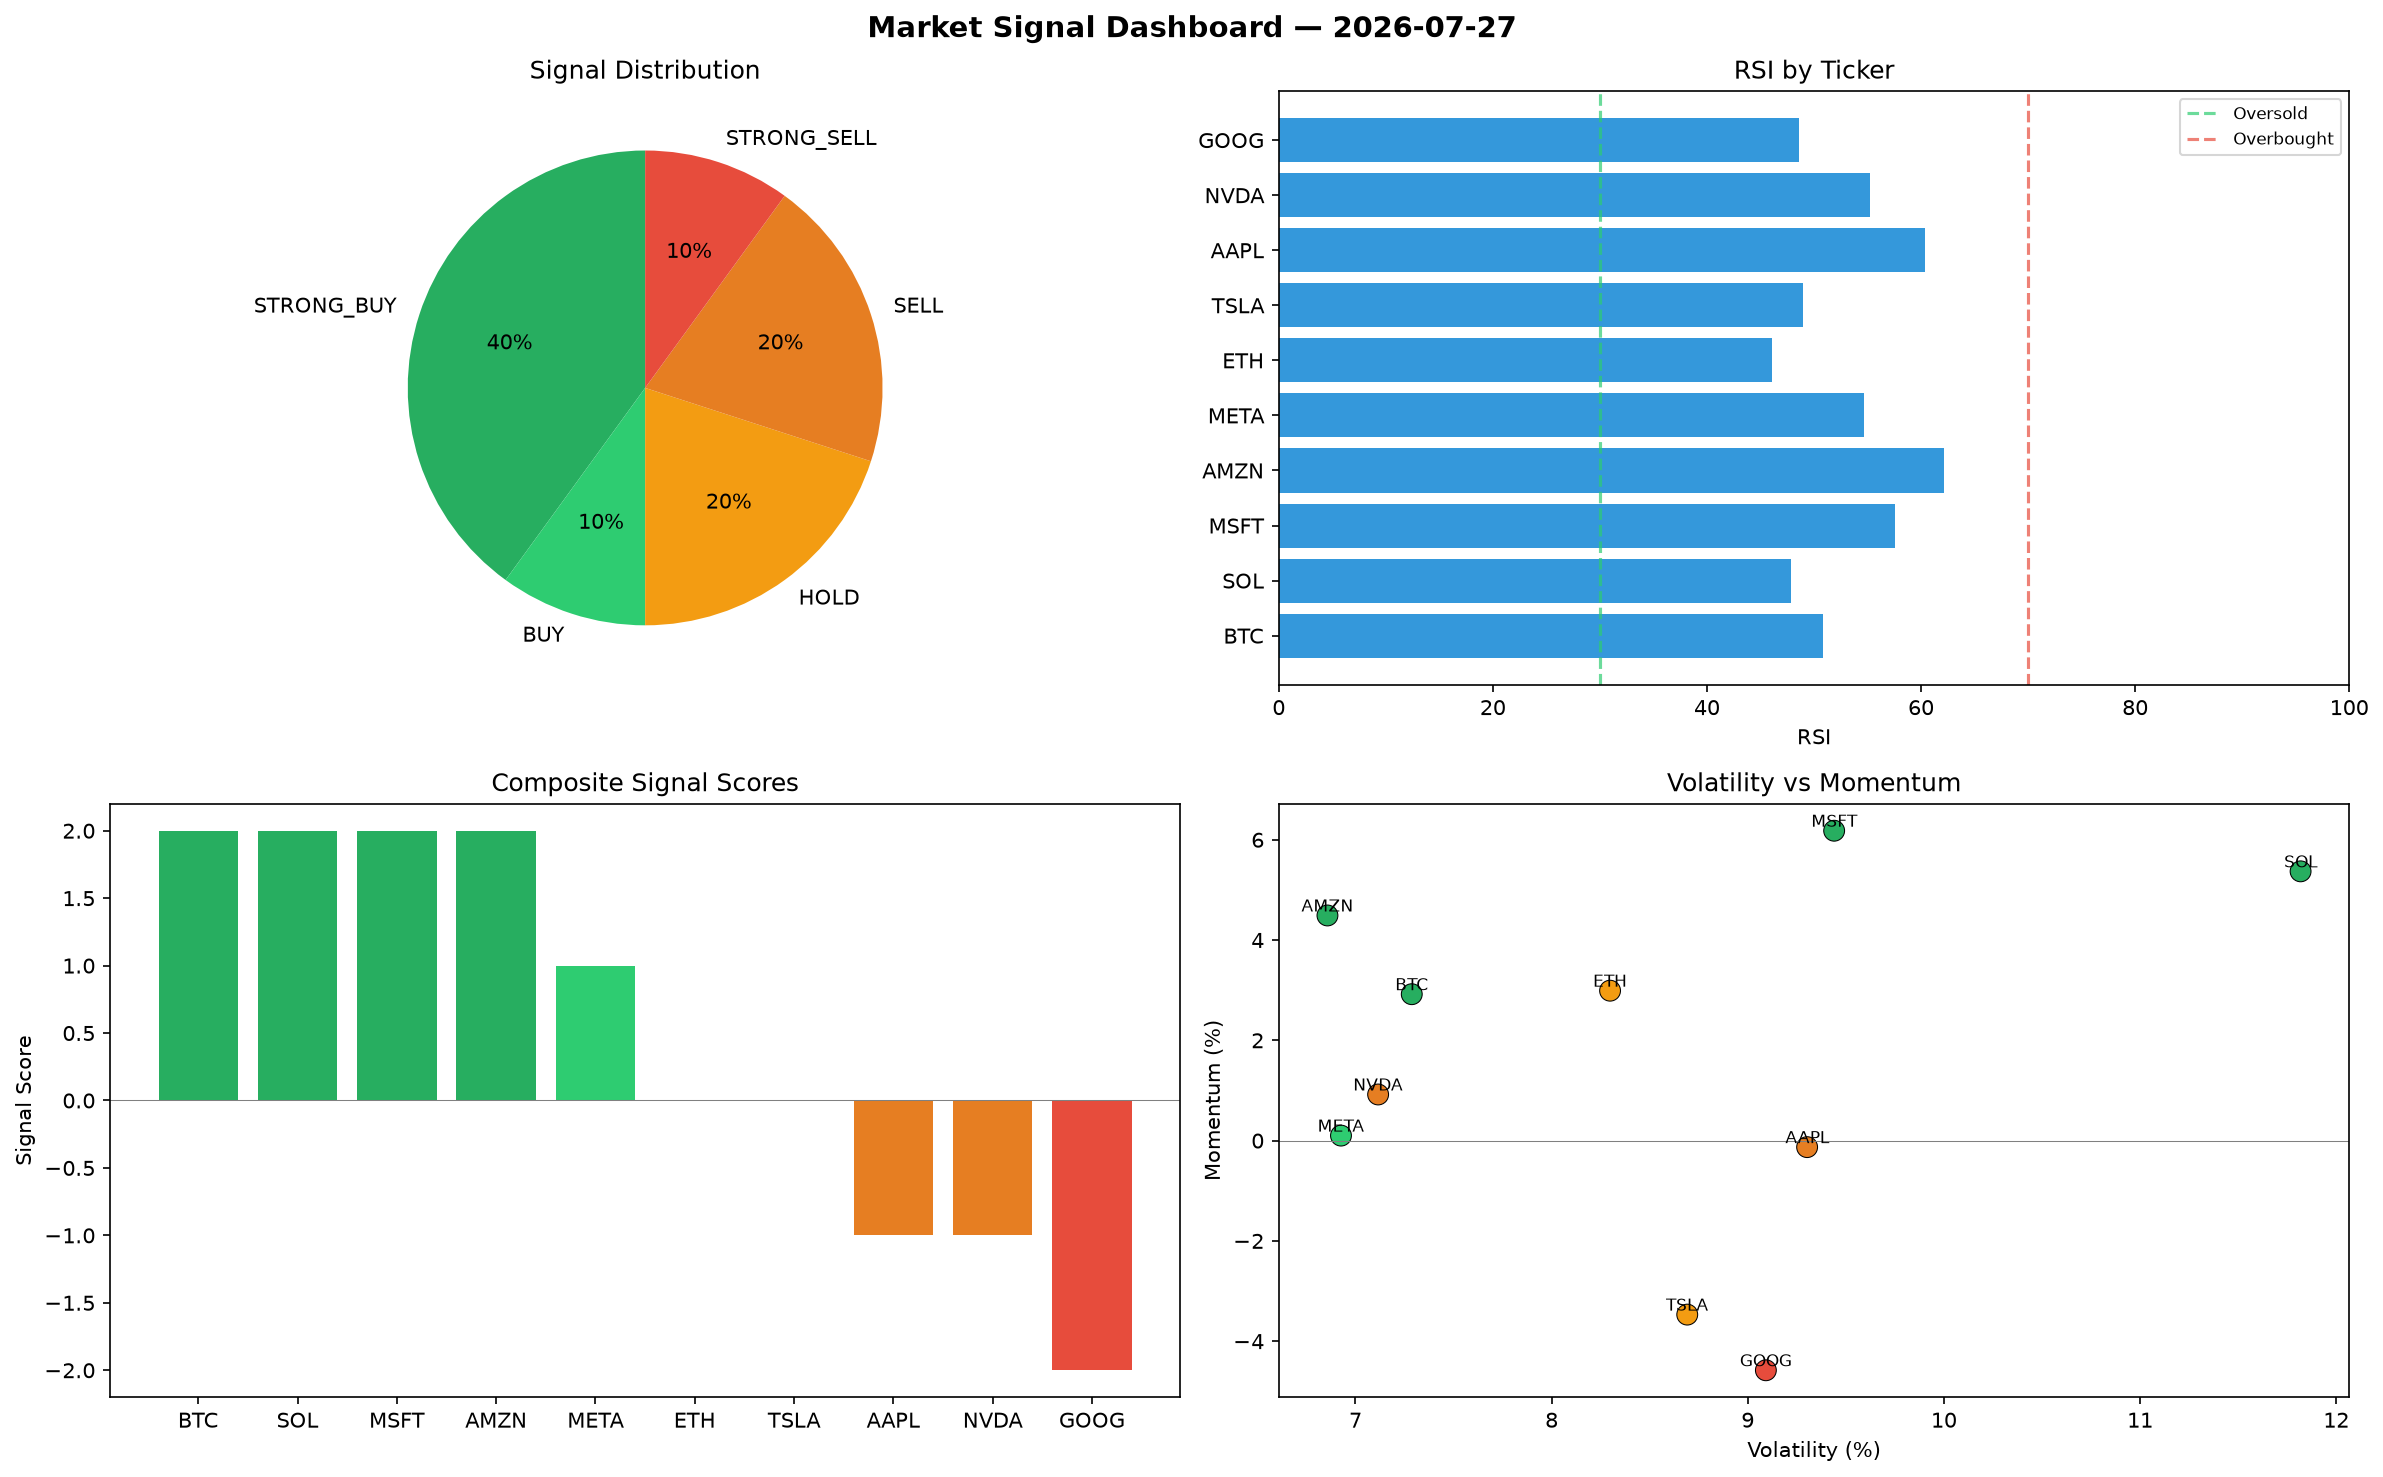
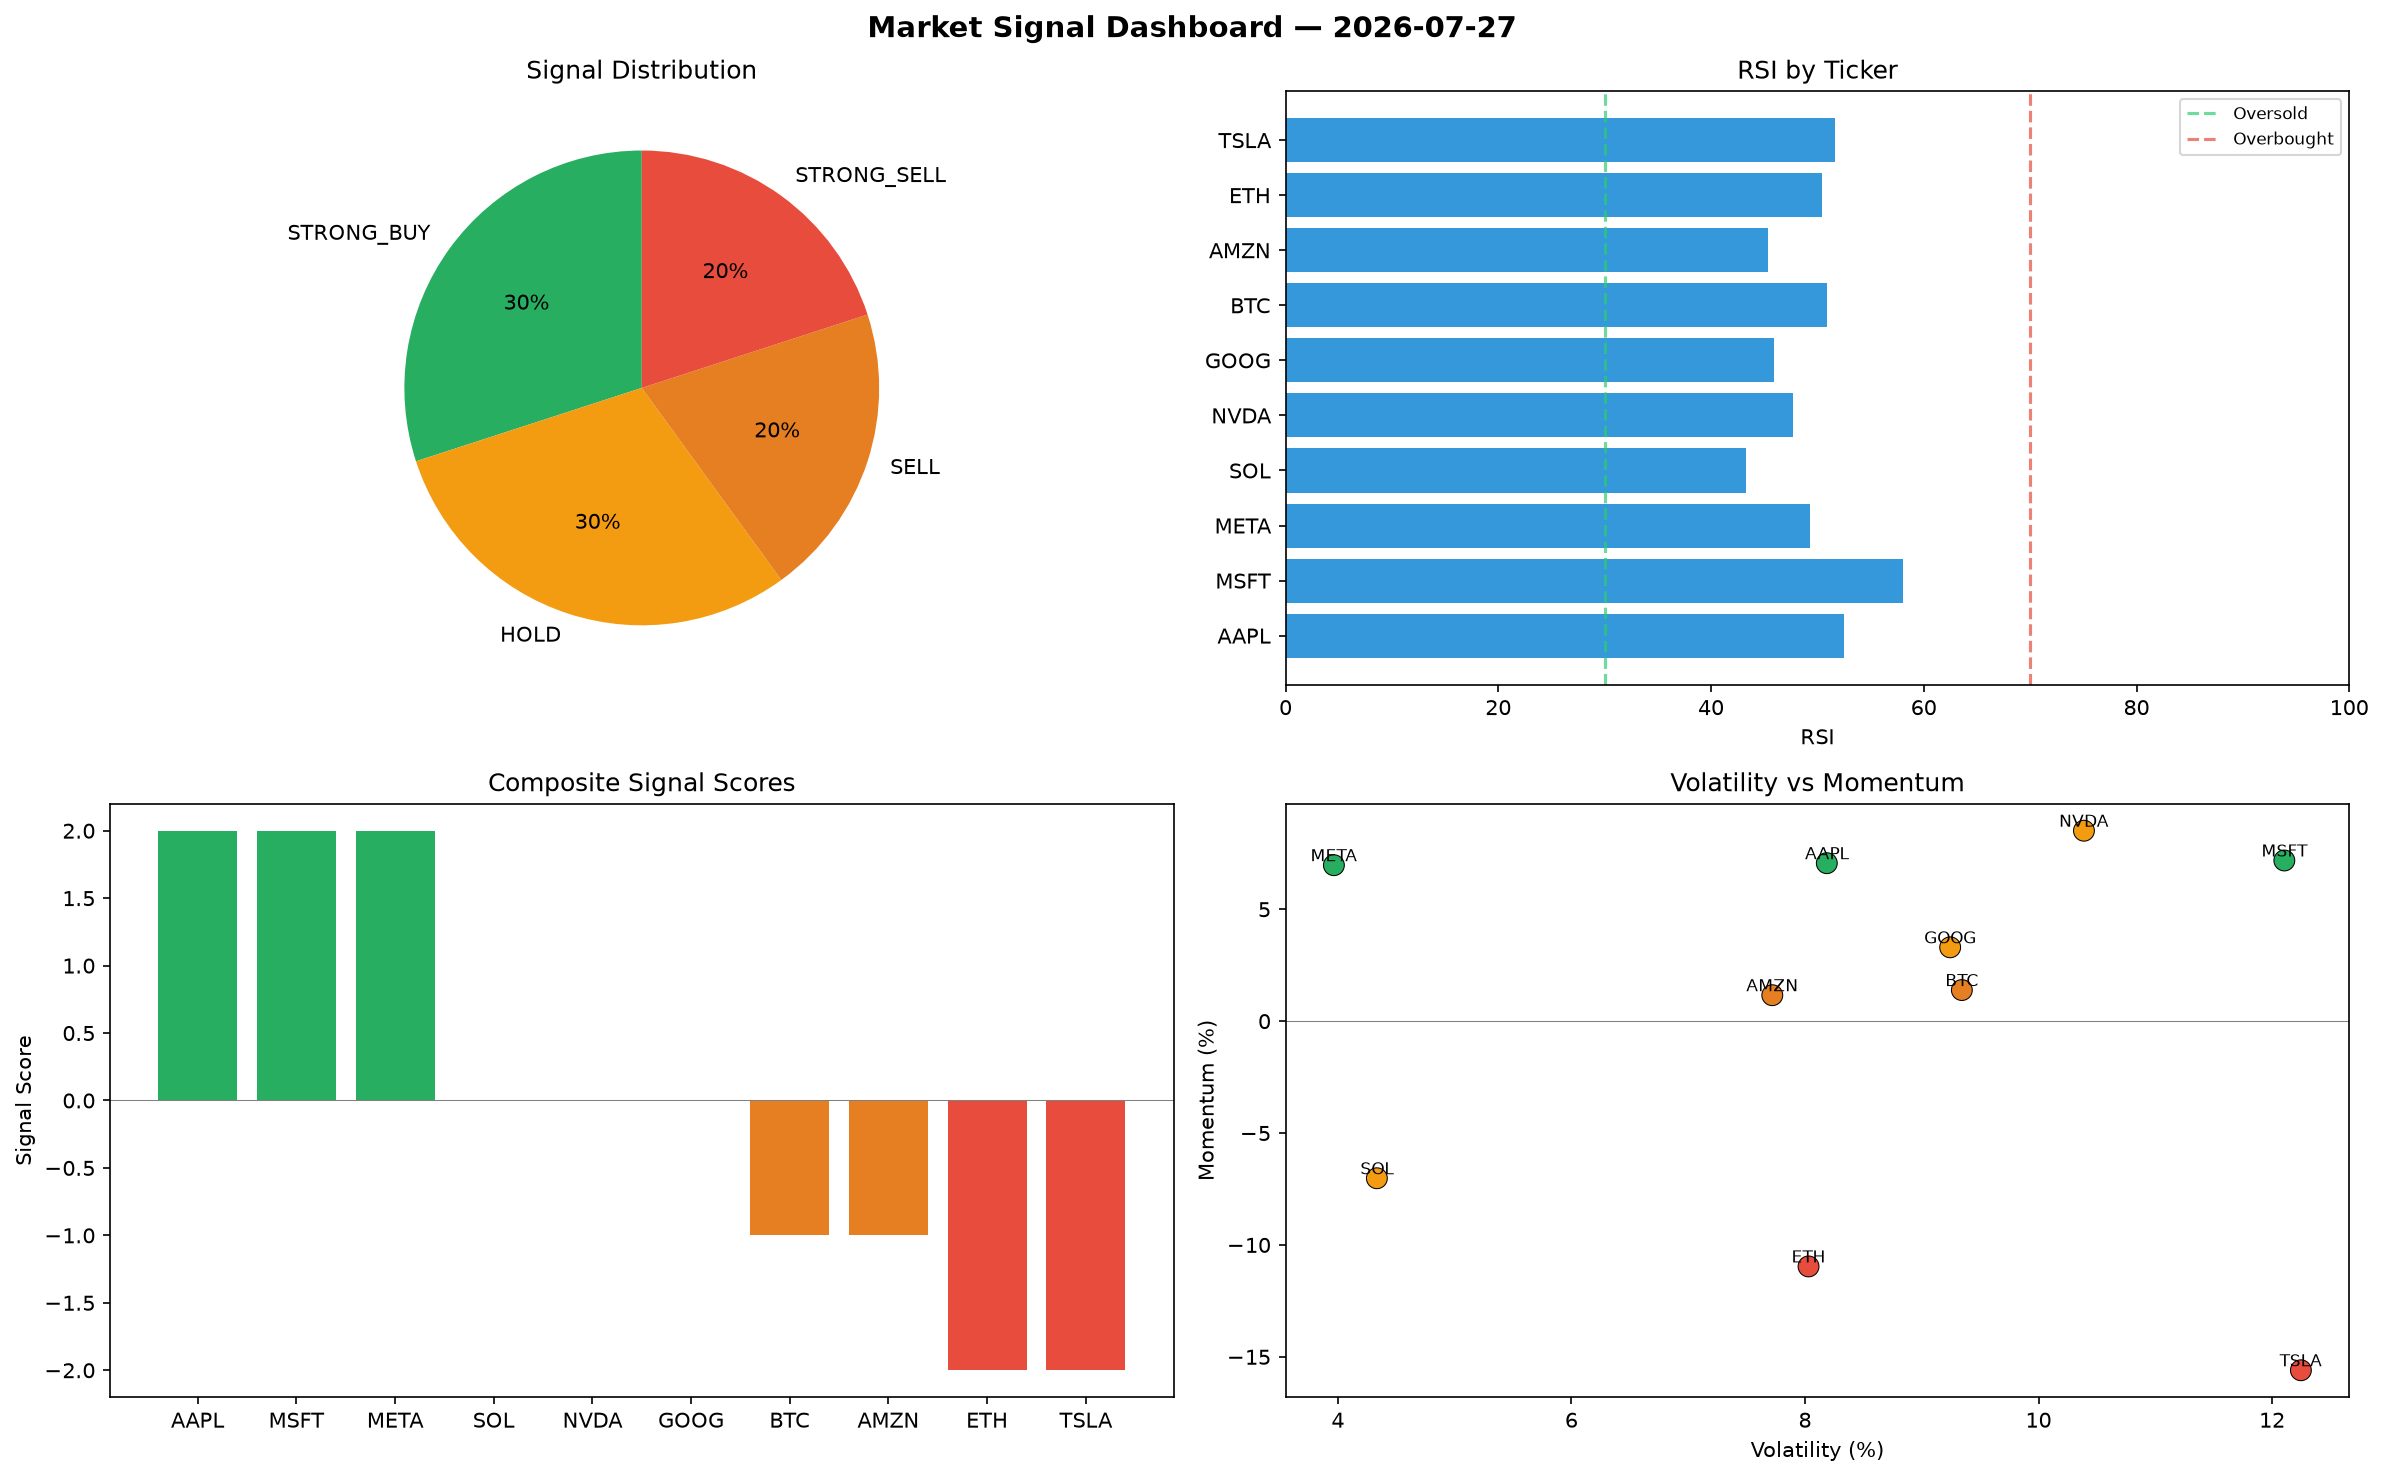
automated-bots: market signals 2026-07-27T11:48

diff --git a/logs/2026-07-27.md b/logs/2026-07-27.md
@@ -1,6 +1,6 @@
 # Market Signal Report — 2026-07-27
 
-**Run ID:** `83b89be6bd` | **Buy:** 5 | **Sell:** 3 | **Hold:** 2
+**Run ID:** `58aa76bce4` | **Buy:** 3 | **Sell:** 4 | **Hold:** 3
 
 ![Dashboard](2026-07-27_dashboard.png)
 
@@ -8,28 +8,28 @@
 
 | Ticker | Price | Signal | Score | RSI | Momentum | Confidence |
 |--------|-------|--------|-------|-----|----------|------------|
-| BTC | $4617.36 | **STRONG_BUY** | 2 | 50.88 | 0.0292 | 0.5 |
-| SOL | $4628.96 | **STRONG_BUY** | 2 | 47.82 | 0.0537 | 0.5 |
-| MSFT | $310.23 | **STRONG_BUY** | 2 | 57.61 | 0.0618 | 0.5 |
-| AMZN | $4538.41 | **STRONG_BUY** | 2 | 62.12 | 0.0449 | 0.5 |
-| META | $1122.62 | **BUY** | 1 | 54.65 | 0.001 | 0.25 |
-| ETH | $3876.8 | **HOLD** | 0 | 46.07 | 0.0299 | 0.0 |
-| TSLA | $3853.13 | **HOLD** | 0 | 48.94 | -0.0347 | 0.0 |
-| AAPL | $3778.29 | **SELL** | -1 | 60.4 | -0.0013 | 0.25 |
-| NVDA | $573.23 | **SELL** | -1 | 55.25 | 0.0092 | 0.25 |
-| GOOG | $2470.98 | **STRONG_SELL** | -2 | 48.59 | -0.0458 | 0.5 |
+| AAPL | $4431.69 | **STRONG_BUY** | 2 | 52.52 | 0.0706 | 0.5 |
+| MSFT | $2413.79 | **STRONG_BUY** | 2 | 58.07 | 0.0718 | 0.5 |
+| META | $175.93 | **STRONG_BUY** | 2 | 49.29 | 0.0697 | 0.5 |
+| SOL | $3438.83 | **HOLD** | 0 | 43.33 | -0.0702 | 0.0 |
+| NVDA | $2862.55 | **HOLD** | 0 | 47.73 | 0.0851 | 0.0 |
+| GOOG | $3379.17 | **HOLD** | 0 | 45.92 | 0.033 | 0.0 |
+| BTC | $3984.44 | **SELL** | -1 | 50.88 | 0.0139 | 0.25 |
+| AMZN | $389.43 | **SELL** | -1 | 45.33 | 0.0116 | 0.25 |
+| ETH | $199.38 | **STRONG_SELL** | -2 | 50.44 | -0.1096 | 0.5 |
+| TSLA | $2471.46 | **STRONG_SELL** | -2 | 51.68 | -0.156 | 0.5 |
 
 ## Delta vs Yesterday
 
 | Ticker | Today | Yesterday | Price Change | Signal Changed |
 |--------|-------|-----------|-------------|----------------|
-| BTC | STRONG_BUY | SELL | 📈 197.91% | ⚠ YES |
-| SOL | STRONG_BUY | BUY | 📈 68.4% | ⚠ YES |
-| MSFT | STRONG_BUY | STRONG_SELL | 📉 -88.97% | ⚠ YES |
-| AMZN | STRONG_BUY | STRONG_SELL | 📈 28.67% | ⚠ YES |
-| META | BUY | STRONG_BUY | 📈 506.85% | ⚠ YES |
-| ETH | HOLD | STRONG_BUY | 📉 -15.0% | ⚠ YES |
-| TSLA | HOLD | STRONG_BUY | 📈 44.74% | ⚠ YES |
-| AAPL | SELL | SELL | 📈 16.6% | — |
-| NVDA | SELL | STRONG_SELL | 📉 -27.75% | ⚠ YES |
-| GOOG | STRONG_SELL | SELL | 📉 -34.82% | ⚠ YES |
+| AAPL | STRONG_BUY | SELL | 📈 36.76% | ⚠ YES |
+| MSFT | STRONG_BUY | STRONG_SELL | 📉 -14.17% | ⚠ YES |
+| META | STRONG_BUY | STRONG_BUY | 📉 -4.9% | — |
+| SOL | HOLD | BUY | 📈 25.1% | ⚠ YES |
+| NVDA | HOLD | STRONG_SELL | 📈 260.8% | ⚠ YES |
+| GOOG | HOLD | SELL | 📉 -10.87% | ⚠ YES |
+| BTC | SELL | SELL | 📈 157.08% | — |
+| AMZN | SELL | STRONG_SELL | 📉 -88.96% | ⚠ YES |
+| ETH | STRONG_SELL | STRONG_BUY | 📉 -95.63% | ⚠ YES |
+| TSLA | STRONG_SELL | STRONG_BUY | 📉 -7.16% | ⚠ YES |
